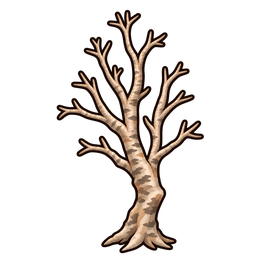
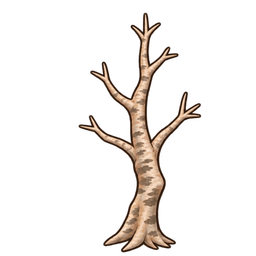
Art: adopt split pruned Shirakaba and Dakekanba leafless sources (#308)

Changed region(s): [[0.2188, 0.0312, 0.8125, 1.0]]

diff --git a/Docs/ArtDirection.md b/Docs/ArtDirection.md
@@ -1,5 +1,22 @@
 # AMJ Environment — Final Art Direction
 
+## 2026-11-01 シラカバ・ダケカンバ落葉画像の枝分かれ削減版 — 作者採用
+
[1 lines of base64/hex data omitted]
+
+| 項目 | シラカバ | ダケカンバ |
+|---|---|---|
+| 原画像内の採用対象の実画素外接矩形（alpha>=8） | x=253..645, y=22..835 | x=1113..1528, y=22..834 |
[1 lines of base64/hex data omitted]
+| 分離した新しい落葉原本 | `Art/Sources/Things/Plant/AMJ/Shirakaba_Leafless/Shirakaba_Leafless_Source.png` | `Art/Sources/Things/Plant/AMJ/Dakekanba_Leafless/Dakekanba_Leafless_Source.png` |
[1 lines of base64/hex data omitted]
+| 旧版の原本・256px（履歴保持） | `Art/Archive/Things/Plant/AMJ/Shirakaba_Leafless/` | `Art/Archive/Things/Plant/AMJ/Dakekanba_Leafless/` |
+
+**導出方法・監査:** RGBAの連結画面を左右で分け、有効alphaの最大の木本連結成分を基準に各8px余白を持つ長方形を切り出した。描画内容の枝/幹の色・形・輪郭は加工せず、256px用の派生では**縦横を同じ倍率でLanczos縮小**してRGBA透明256×256へ配置。旧採用256pxの根元に中心を合わせた（シラカバ130px→130px、ダケカンバ138px→139px）。alpha16以上の新外接矩形はシラカバ(x73..189,y13..253)、ダケカンバ(x78..201,y12..252)。新旧比で樹冠幅が狭いのは作者が選んだ新画像の形状差であり、見かけの均等拡大や横方向の不自然な引き伸ばしはしていない。RimWorld縮小画面でも枝数を減らした樹形として判読できる。
+
+**所有境界:** 画像1状態の原画採用・PNG分離のみが完了。葉あり原本、葉あり積雪、落葉時の枝積雪なし、植生分布/DefName/植物系C#は変えない。両樹種の本番ThingDefとTextures接続・DDS書き出し・実RimWorld 1.6/1.7での樹形確認は、該当する樹種実装工程で行う。旧原本および過去の画像受入記録は履歴として残すが、現在の落葉採用画像ではない。
+
+
 ## 2026-11-01 ハンノキ葉あり積雪：作者採用・現行正本
 
 - 作者は修正候補の実ゲーム比較提示後に「ｙ」と返答し、ハンノキの**葉あり積雪修正版**を採用した。以前の「積雪してない」は旧画像に対する指摘であり、新画像には適用しない。

diff --git a/Docs/ValidationEvidence/BirchPrunedLeaflessSplit-20261101.md b/Docs/ValidationEvidence/BirchPrunedLeaflessSplit-20261101.md
@@ -1,0 +1,21 @@
+# Shirakaba and Dakekanba pruned leafless image split — 2026-11-01
+
+## Approval and authoritative source
+
+The user supplied the actual 1774×887 RGBA side-by-side PNG, after several unsuccessful redraws, and explicitly requested 「ではこの画像を分離してそれぞれの落葉画像として」. **The source is the actual uploaded combined PNG; not any regenerated or algorithmically pruned earlier candidate.**
+
[3 lines of base64/hex data omitted]
+- Both old accepted masters and old 256px review candidates are preserved **byte-for-byte** in `Art/Archive/Things/Plant/AMJ/`.
+
+## Placement and comparability
+
+The side-by-side image uses transparent background despite black UI rendering. Alpha threshold >=8 identifies two main connected tree objects; no foreground recomposition or branch-geometry changes were made. Per-species cropping kept an 8px frame of original pixels; uniform Lanczos downscale preserves aspect ratio. The lower trunk root anchor was aligned to the old 256px accepted leafless sprite: median x=130 (Shirakaba original=130) and x=139 (Dakekanba original=138). Alpha>=16 occupied rectangles: Shirakaba [73,13,190,254], Dakekanba [78,12,202,253]. Earlier review sprite rectangles: Shirakaba [53,1,211,256], Dakekanba [56,9,204,254]. The new image is narrower deliberately, exactly matching the user's simplified tree image, not an accidental stretch. Comparisons were made on 256px and reduced 64px representations, including alpha and species-specific bark color.
+
+## Explicit nonacceptance boundaries
+
+- New art has author approval **for these leafless source sprites**, not a game-runtime screenshot pass.
+- The new dedicated 2-species ThingDefs, distribution, season switching and full branch-to-leafy continuity have **not** been implemented or tested by the split.
+- No snow overlay on bare branches; `LeaflessNoSnow` existing rule persists when species Defs are implemented. Leafy snow candidates and all original accepted leafy assets remain unchanged.
+- Future native game tests must verify loaded source size and graphic orientation before any release-stage acceptance. Do not claim runtime PASS from this static image split.
